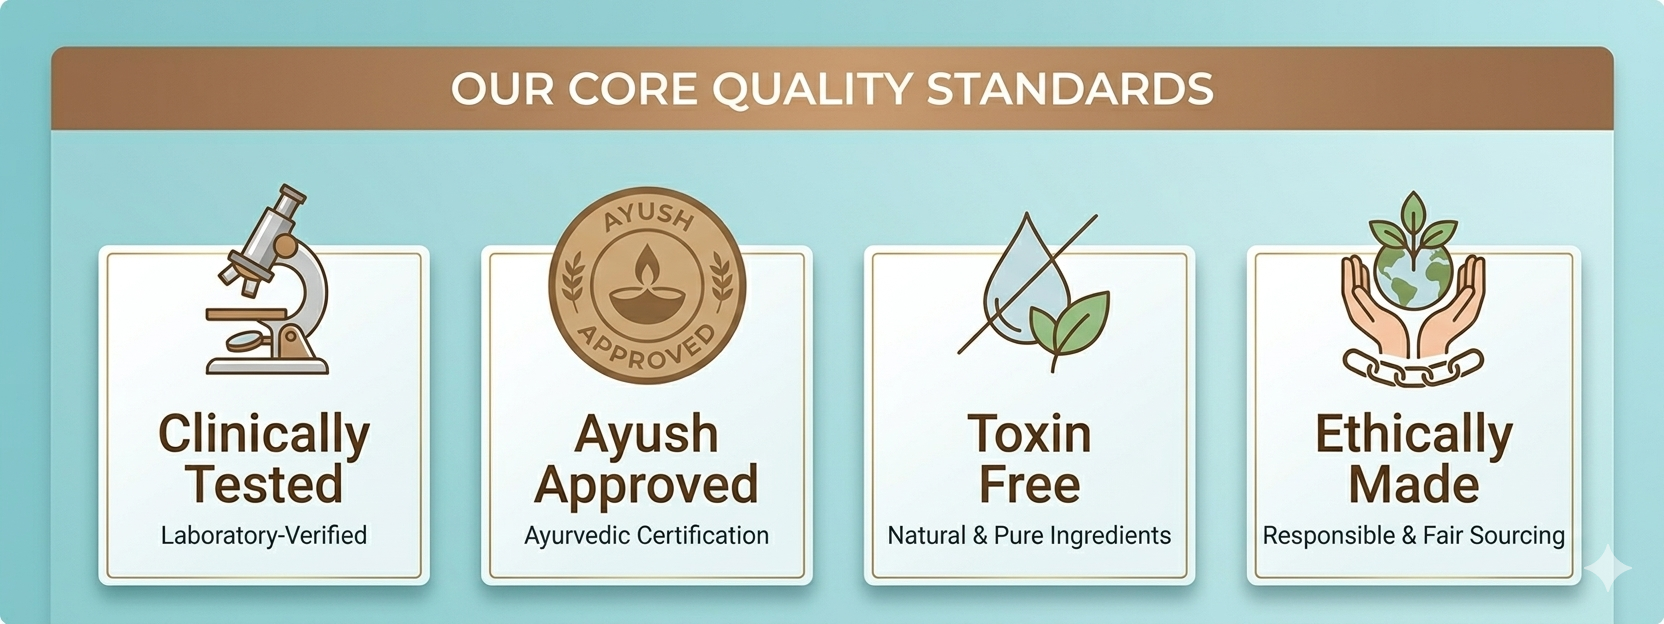
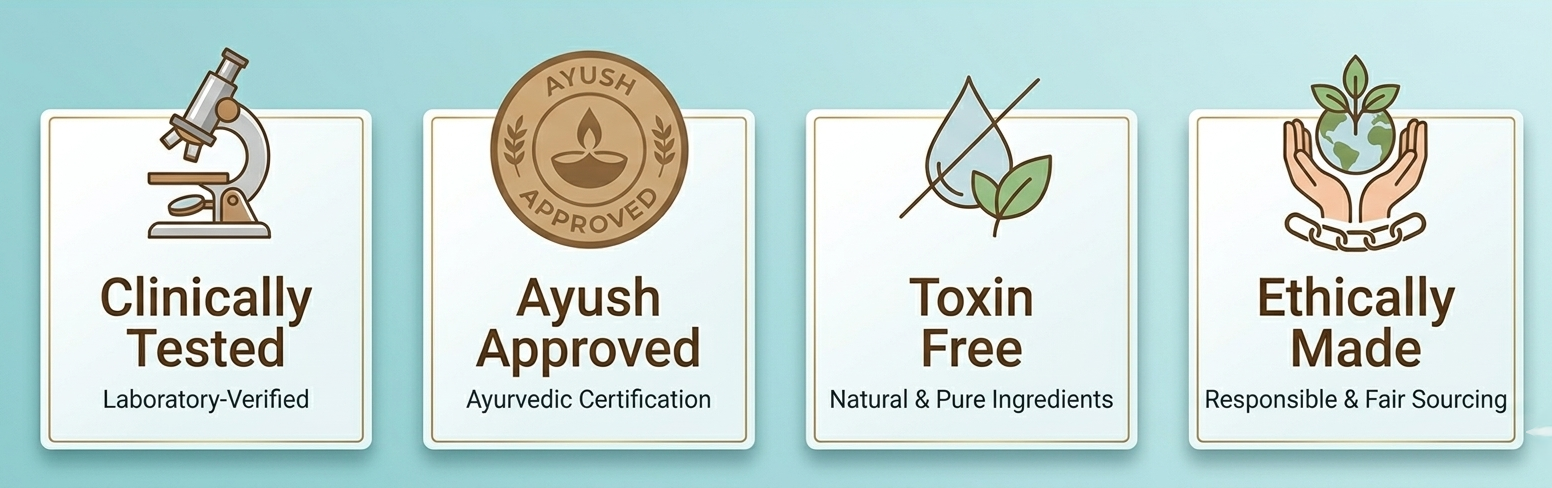
23-04-2026

diff --git a/src/app/page.jsx b/src/app/page.jsx
@@ -28,7 +28,7 @@ import deskp4 from "../images/dskp4.png";
 import img4 from "../images/image2.png";
 
 import ComboBanner from "@components/combo/ComboBanner";
-import bannernew1 from "../images/bannernew1.png";
+import bannernew1 from "../../public/slider/bannernew2.png";
 import bannernew2 from "../images/bannernew2.png";
 import trustimg from "../images/trust.png";
 import productheading from "../images/skin.png";
@@ -137,63 +137,6 @@ const Home = async () => {
   const { globalSetting } = await getGlobalSetting();
   const currency = globalSetting?.default_currency || "₹";
 
-  const features = [
-    {
-      title: "Clinically Tested",
-      bg: "bg-indigo-50 group-hover:bg-indigo-600",
-      stroke: "stroke-indigo-600 group-hover:stroke-white",
-      image: icon1,
-    },
-    {
-      title: "AYUSH Approved",
-      bg: "bg-green-50 group-hover:bg-green-600",
-      stroke: "stroke-green-600 group-hover:stroke-white",
-      image: icon2,
-    },
-    {
-      title: "Toxin Free",
-      bg: "bg-yellow-50 group-hover:bg-yellow-600",
-      stroke: "stroke-yellow-600 group-hover:stroke-white",
-      image: icon3,
-    },
-    {
-      title: "Ethically Made",
-      bg: "bg-red-50 group-hover:bg-red-600",
-      stroke: "stroke-red-600 group-hover:stroke-white",
-      image: icon4,
-    },
-  ];
-
-  const products = [
-    {
-      id: 1,
-      image: require("../images/sunscreen-product-img.png"),
-      name: "Sunscreen",
-    },
-    {
-      id: 2,
-      image: require("../images/facewash-product-img.png"),
-      name: "Facewash",
-    },
-    {
-      id: 3,
-      image: require("../images/serum-product-img.png"),
-      name: "Serum",
-    },
-    {
-      id: 4,
-      image: require("../images/moisturizer-product-img.png"),
-      name: "Moisturizer",
-    },
-  ];
-
-  const videos = [
-    { id: 2, src: "/video/2.mp4", title: "Facewash" },
-    { id: 4, src: "/video/4.mp4", title: "Serum" },
-    { id: 6, src: "/video/6.mp4", title: "Moisturizer" },
-    { id: 3, src: "/video/3.mp4", title: "Sunscreen" },
-  ];
-
   return (
     <div className="min-h-screen  relative  max-w-4xl  m-auto">
       {/* sticky cart section */}
@@ -229,109 +172,36 @@ const Home = async () => {
               </Suspense>
             </div> */}
           </div>
-
-          {/* Banner */}
-          {/* <div className="bg-orange-100 p-4 lg:px-10 lg:py-6 rounded-lg mt-6 dark:bg-slate-600 hidden lg:block">
-            <Banner storeCustomizationSetting={storeCustomizationSetting} />
-          </div> */}
         </div>
-      </div>
+      </div> 
 
       <Image alt="trust " src={trustimg} className="w-full h-auto" />
-      {/* <section className="py-8 pb-4">
-        <div className="mx-auto max-w-screen-2xl   sm:px-6 lg:px-8">
-          <div className="flex  flex-row justify-around lg:justify-between  gap-2 lg:justify-between px-2">
-            {features.map((item, index) => (
-              <div
-                key={index}
-                className="relative pt-10 rounded text-center max-md:max-w-sm max-md:mx-auto group bg-[#2d5f7b] pb-2 px-2 w-[95%]"
-                // #833434
-              >
-                <div
-                  className={`${item.bg} absolute -top-6 left-0 right-0 rounded-full border-[1px] border-gray-400 flex justify-center items-center mb-4 mx-auto cursor-pointer transition-all duration-500 w-14 h-14 `}
-                >
-                  <Image src={item.image} className="w-full" alt="icon" />
-                </div>
-
-                <h4 className="text-base font-bold text-gray-100 capitalize text-xs w-full">
-                  {item.title.split(" ").map((word, index) => (
-                    <span key={index}>
-                      {word}
-                      <br />
-                    </span>
-                  ))}
-                </h4>
-              </div>
-            ))}
-          </div>
-        </div>
-      </section> */}
-
-      {/* <div className="px-2   mb-4 ">
-        <Image
-          src={off1}
-          width={600}
-          height={300}
-          alt="35% off"
-          sizes="(max-width: 768px) 100vw, 600px"
-          priority
-          className="w-full h-auto"
-        />
-      </div> */}
 
       {/* videos */}
-      <section className="w-full bg-[#bbdce0] py-6">
-        <h1 className="px-2 text-xl sm:text-xl font-semibold text-[#b16d2f] text-center">
-          Everything your skin needs is <br /> now at one place
-        </h1>
-
-        <div className="overflow-x-auto no-scrollbar mt-3 mr-2">
-          <div className="flex gap-3 px-2 ">
-            {videos.map((video) => (
-              <div
-                key={video.id}
-                className="
-            relative
-            flex-shrink-0
-            w-[40%] 
-            sm:w-[55%]
-            md:w-[25%] 
-            aspect-[9/16]
-            rounded-md
-            overflow-hidden
-            shadow-lg
-            bg-black
-          "
-              >
-                <video
-                  src={video.src}
-                  muted
-                  loop
-                  playsInline
-                  autoPlay
-                  className="w-full h-full object-cover"
-                />
-
-                <div className="absolute inset-0 bg-gradient-to-t from-black/70 via-black/20 to-transparent" />
-
-                <div className="absolute bottom-0 p-3">
-                  <p className="text-white text-xs sm:text-sm font-medium leading-tight line-clamp-2">
-                    {video.title || "Sample caption text"}
-                  </p>
-                </div>
-              </div>
-            ))}
-          </div>
-        </div>
+      <section className="w-full bg-[#bbdce0] py-6 px-2">
+        <video  
+          src="/video1.mp4"
+          muted
+          loop
+          playsInline
+          autoPlay
+          className="w-full"
+        />
       </section>
 
       {/* product card  */}
-      <Image
+      {/* <Image
         alt="productheading"
         src={productheading}
         className="w-full h-auto"
-      />
+      /> */}
       <ComboBanner products={popularProducts || []} />
+
+      {/* animated slider */}
+      <div className="">
+        <video src="/video2.mp4" loop autoPlay muted className="w-full" />
+      </div>
+
       <div className="flex bg-[#f8f2e2] py-6 pt-2">
         <div className="w-full">
           {error ? (
@@ -361,17 +231,6 @@ const Home = async () => {
             </div>
           )}
         </div>
-      </div>
-
-      <div>
-        {desktopProductImages?.map((index, image) => (
-          <Image
-            key={image}
-            src={index.image}
-            className="w-full h-auto"
-            alt="desktop images"
-          />
-        ))}
       </div>
 
       <div className="mt-6   grid grid-cols-1 md:grid-cols-2   md:gap-3 lg:gap-3   max-w-screen-2xl m-auto">

diff --git a/src/components/combo/ComboBanner.jsx b/src/components/combo/ComboBanner.jsx
@@ -53,7 +53,7 @@ const ComboBanner = ({ products }) => {
           updateItemQuantity(formattedProduct.id, newQuantity);
         } else {
           addItem(formattedProduct, 1);
-        }
+        } 
         addedCount++;
       } else {
         errorCount++;
@@ -69,7 +69,7 @@ const ComboBanner = ({ products }) => {
   };
 
   return (
-    <div className="relative m-auto max-w-screen-2xl mb-2 px-2 py-2 rounded-md glow-border">
+    <div className="relative m-auto max-w-screen-2xl   px-2 py-2    border border-gray-500 shadow-lg bg-[#905844]">
       <div className="bg-white rounded-md flex flex-col justify-center items-center">
         <Link href="/combo">
           <Image